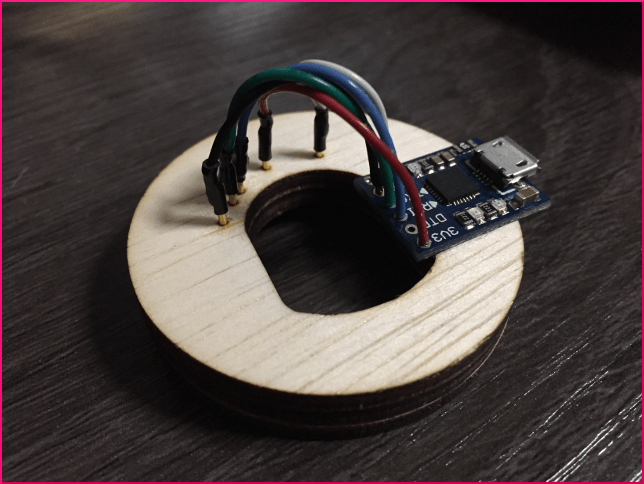
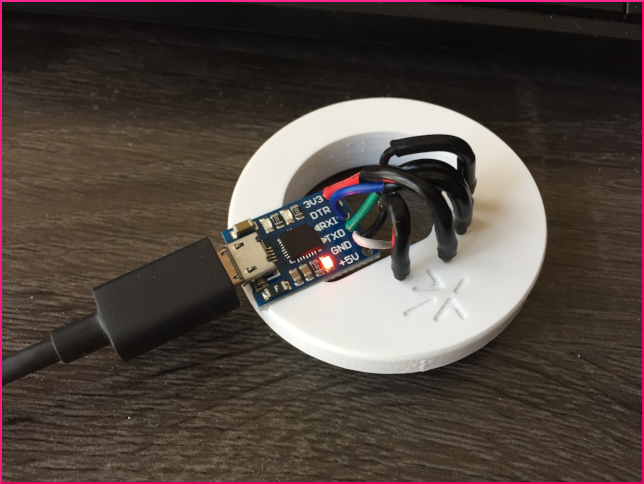
Replaced AiLight Jig photo with latest version.

diff --git a/Connection.md b/Connection.md
@@ -14,7 +14,7 @@ The [AiLight Jig](https://www.sachatelgenhof.nl/blog/ailight-jig) is designed sp
 
 ![AiLight Jig](images/ailight_jig.png)
 
-_If you'd like to use an AiLight Jig, check out more details [here](https://www.sachatelgenhof.nl/blog/ailight-jig). For those who have tinkering skills and access to a laser cutter, follow [[these|Make-your-own-AiLight-Jig]] instructions how to make your own AiLight jig._
+_If you'd like to use an AiLight Jig, check out more details [here](https://www.sachatelgenhof.nl/blog/ailight-jig). For those who have tinkering skills, follow [[these|Make-your-own-AiLight-Jig]] instructions how to make your own AiLight jig._
 
 ### Using the AiLight Jig
 _!**Warning**: Please make sure your Ai-Thinker LED RGBW light is **not** connected to your mains while connecting your USB/UART (or equivalent) adapter or AiLight Jig._
